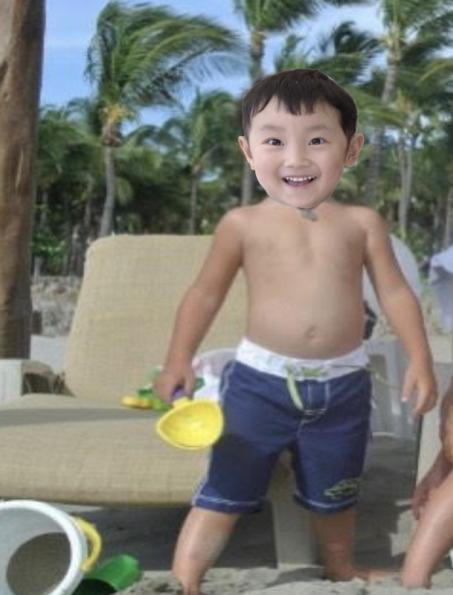
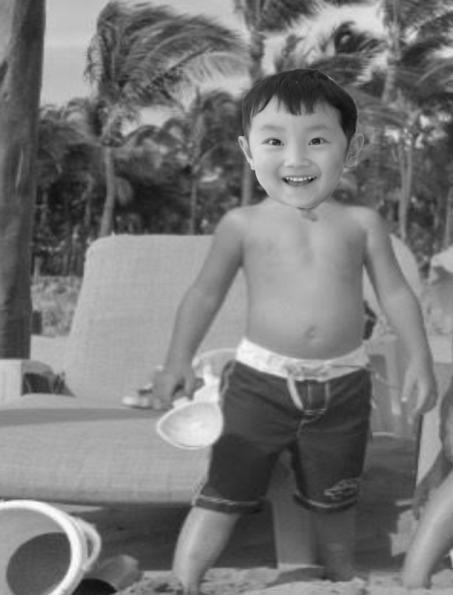
auto read training folder for data

diff --git a/x2read.py b/x2read.py
@@ -8,21 +8,22 @@ from tensorflow.python.keras import backend as K
 config = tf.compat.v1.ConfigProto(device_count={"CPU": 8})
 K.set_session(tf.compat.v1.Session(config=config))
 
+
 def upscale(image, model):
-    data=model.predict(np.array([image]),verbose = 0)[0]
-    img=PIL.Image.new("L",(5,5))
+    data = model.predict(np.array([image]), verbose=0)[0]
+    img = PIL.Image.new("L", (5, 5))
     img.putdata(data)
-    img=img.transpose(PIL.Image.FLIP_LEFT_RIGHT)
-    img=img.rotate(90)
+    img = img.transpose(PIL.Image.FLIP_LEFT_RIGHT)
+    img = img.rotate(90)
     return img.getdata()
 
 
 def imageTo3x3Chunks(image: PIL.Image):
     _pixels = list(image.getdata())
-    pixels=[]
+    pixels = []
     for i in range((image.height//3)*3):
         pixels.append([_pixels[i*(image.width//3)*3+k]
-                for k in range((image.width//3)*3)])
+                       for k in range((image.width//3)*3)])
     chunks = []
     for i in range(len(pixels)//3):
         for j in range(len(pixels[0])//3):
@@ -40,12 +41,14 @@ def imageTo3x3Chunks(image: PIL.Image):
                 ]
             )
     return chunks
+
+
 def imageTo4x4Chunks(image: PIL.Image):
     _pixels = list(image.getdata())
-    pixels=[]
+    pixels = []
     for i in range((image.height//4)*4):
         pixels.append([_pixels[i*(image.width//4)*4+k]
-                for k in range((image.width//4)*4)])
+                       for k in range((image.width//4)*4)])
     chunks = []
     for i in range(len(pixels)//4):
         for j in range(len(pixels[0])//4):
@@ -72,24 +75,24 @@ def imageTo4x4Chunks(image: PIL.Image):
     return chunks
 
 
-model = keras.saving.load_model("model4to5.keras")
+model = keras.saving.load_model("model3to5.keras")
 
 image = PIL.Image.open("testing.jpg")
 image = image.convert("L")
-image = image.resize(((image.width//4)*4, (image.height//4)*4))
-chunks = imageTo4x4Chunks(image)
+image = image.resize(((image.width//3)*3, (image.height//3)*3))
+chunks = imageTo3x3Chunks(image)
 upscaledChunks = [upscale(chunk, model) for chunk in tqdm.tqdm(chunks)]
 out2 = []
 
 # 2d chucks
-for i in range((image.height//4)):
-    out2.append([upscaledChunks[i*(image.width//4)+k]
-                for k in range((image.width//4))])
+for i in range((image.height//3)):
+    out2.append([upscaledChunks[i*(image.width//3)+k]
+                for k in range((image.width//3))])
 
 upscaledChunks = out2[:]
 tmp = []
 for upscaledChunk in upscaledChunks:
-    a, b, c, d,e = [], [], [], [],[]
+    a, b, c, d, e = [], [], [], [], []
     for i in upscaledChunk:
         a += [i[0], i[1], i[2], i[3], i[4]]
         b += [i[5], i[6], i[7], i[8], i[9]]

diff --git a/makeData.py b/makeData.py
@@ -1,9 +1,10 @@
-inputSize=3
-outputSize=5
-
-import PIL.Image
+import os
 import json
 import PIL.ImageChops
+import PIL.Image
+import tqdm
+inputSize = 3
+outputSize = 5
 
 
 def imageToChunks(image: PIL.Image, chunkSize: int):
@@ -28,14 +29,19 @@ def resizeChunks(chunks, inputSize, outputSize):
     return chunkOut
 
 
-image = PIL.Image.open("image.jpg")
-image = image.resize(((image.width//5)*5, (image.height//5)*5))
+files = os.listdir("./trainImg")
+x, y = [], []
+print("Training data converting")
+for f in tqdm.tqdm(files):
+    image = PIL.Image.open("./trainImg/"+f)
+    image = image.convert("L")
+    image = image.resize(
+        ((image.width//outputSize)*outputSize, (image.height//outputSize)*outputSize))
+    y += imageToChunks(image, outputSize)
+    x += resizeChunks(y, outputSize, inputSize)
 
-
-y = imageToChunks(image, outputSize)
-x = resizeChunks(y, outputSize, inputSize)
-
-data = [x, y]
 
 with open("imageTrainData.json", "w") as f:
-    json.dump(data, f)
+    print("Dumping training data")
+    json.dump([x, y], f)
+    print("Dumped training data")

diff --git a/toL.py b/toL.py
@@ -1,0 +1,4 @@
+import PIL.Image
+img = PIL.Image.open("testing.jpg")
+img = img.convert("L")
+img.save("testing.jpg")
